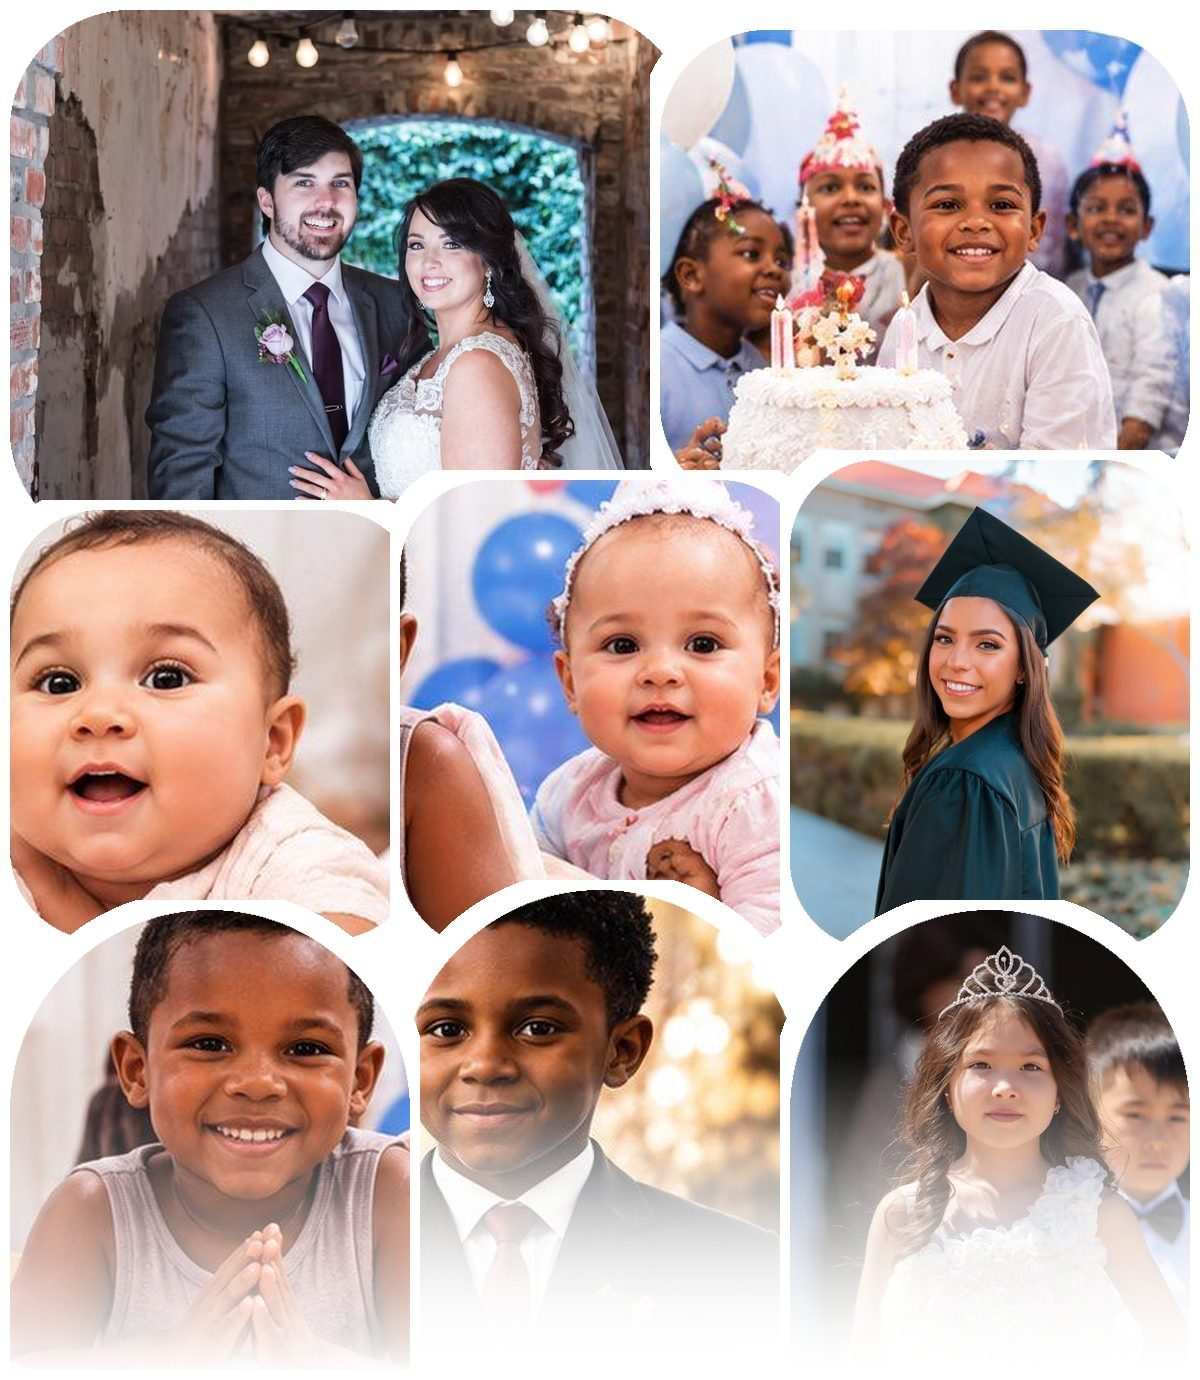
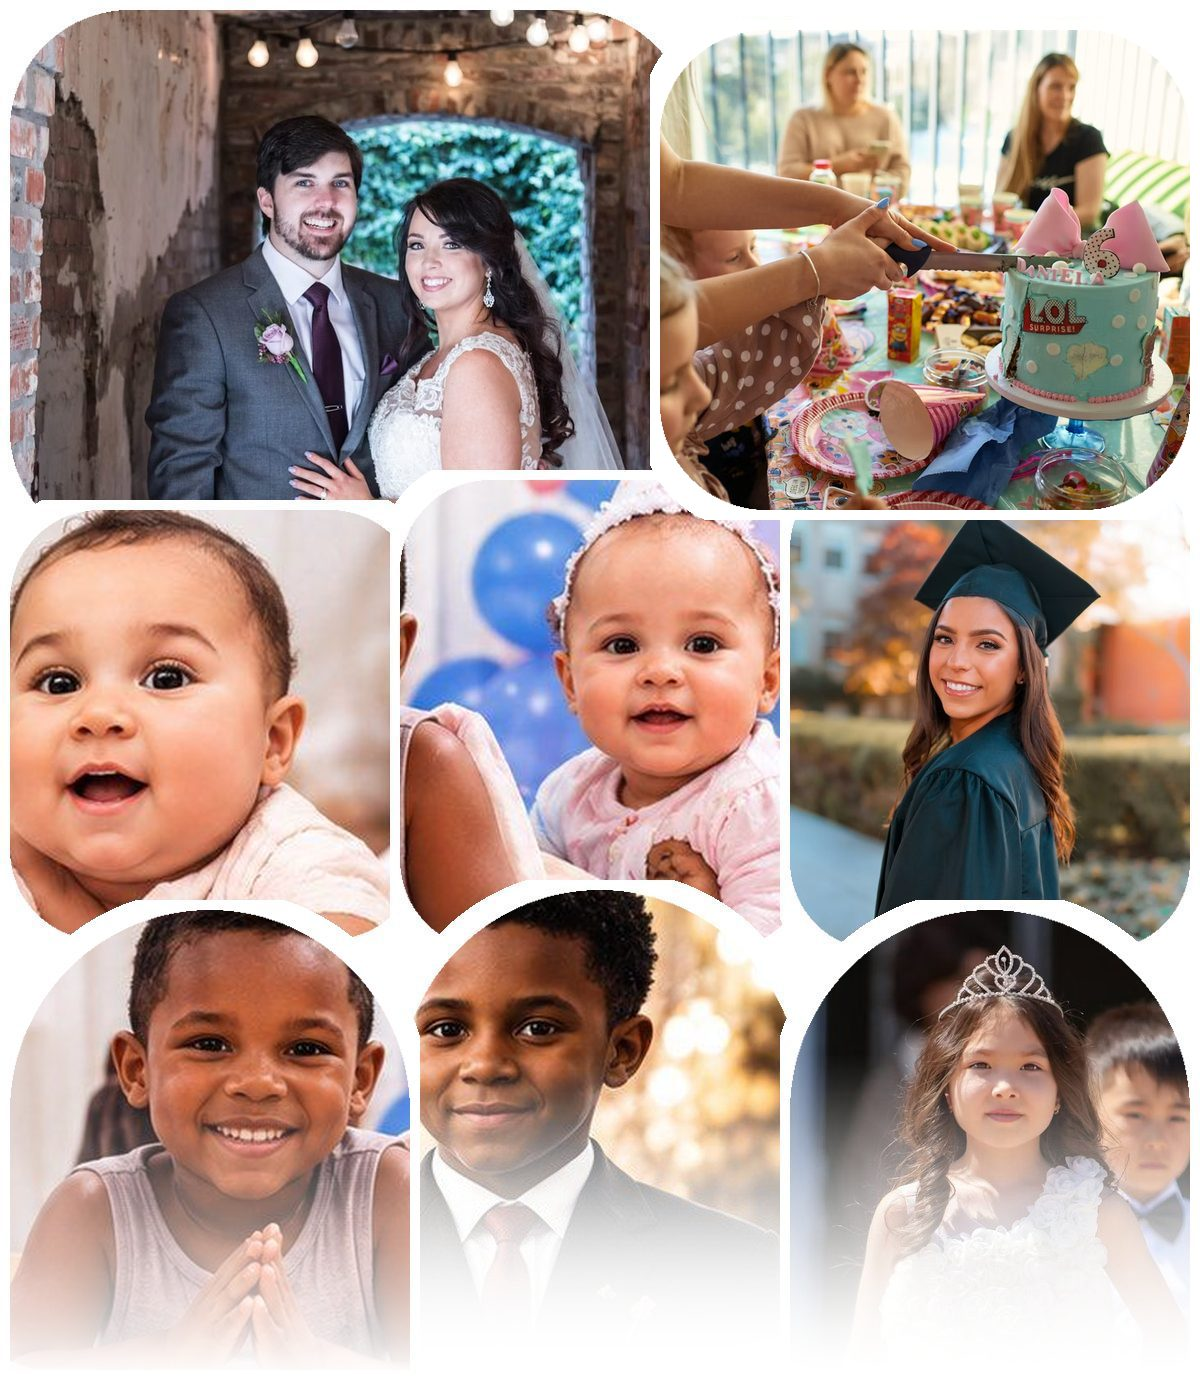
Page d'accueil : nouvelle photo d'anniversaire dans le collage (et pour les anniversaires de démo)
Claude-Session: https://claude.ai/code/session_01DZD1fyPbKcUBTkn1qnKi7H

Changed region(s): [[0.5242, 0.0, 1.0, 0.3739]]

diff --git a/lib/demo.js b/lib/demo.js
@@ -21,7 +21,7 @@ const variants = (name, n) => [name, ...Array.from({ length: n - 1 }, (_, i) => 
 const WEDDING = img(...variants("live-mariage", 5), "mariage-b", ...variants("mariage", 4));
 const BABY = img(...variants("bebe", 4));
 const KIDS = img(...variants("enfants", 4));
-const PARTY = img(...variants("anniversaire", 4), ...variants("enfants", 4));
+const PARTY = img("anniversaire-f", ...variants("anniversaire", 4), ...variants("enfants", 4));
 const COVERS = {
   mariage: WEDDING, fiancailles: [...WEDDING].reverse(),
   bapteme: BABY, "baby-shower": [...BABY, ...KIDS], communion: img("communion-f", ...variants("costume", 4)),
@@ -101,14 +101,14 @@ let varied = false;
 export async function varyDemoCovers() {
   if (varied) return false;
   varied = true;
-  if ((await getSetting("demoCovers")) >= 4) return false;
+  if ((await getSetting("demoCovers")) >= 5) return false;
   const list = await demoEvents();
   const seen = {};
   await Promise.all(list.map((e) => {
     const i = seen[e.type] = (seen[e.type] ?? -1) + 1;
     return e.cover?.startsWith("/img/demo/") ? saveEvent({ ...e, cover: coverFor(e.type, i) }) : null;
   }));
-  await setSetting("demoCovers", 4);
+  await setSetting("demoCovers", 5);
   return true;
 }
 

diff --git a/public/index.html b/public/index.html
@@ -26,7 +26,7 @@
 </head>
 <body>
   <main class="container" style="max-width:480px">
-    <img class="hero-collage" src="/img/maquette/collage.jpg?v=9" alt="Mariage, baptême, anniversaire, remise de diplôme : tous vos moments">
+    <img class="hero-collage" src="/img/maquette/collage.jpg?v=10" alt="Mariage, baptême, anniversaire, remise de diplôme : tous vos moments">
 
     <p style="text-align:center;margin:0">
       <span class="logo logo-lg"><img src="/img/logo.png" alt=""><span>MaFel<b>i</b>za</span></span>
